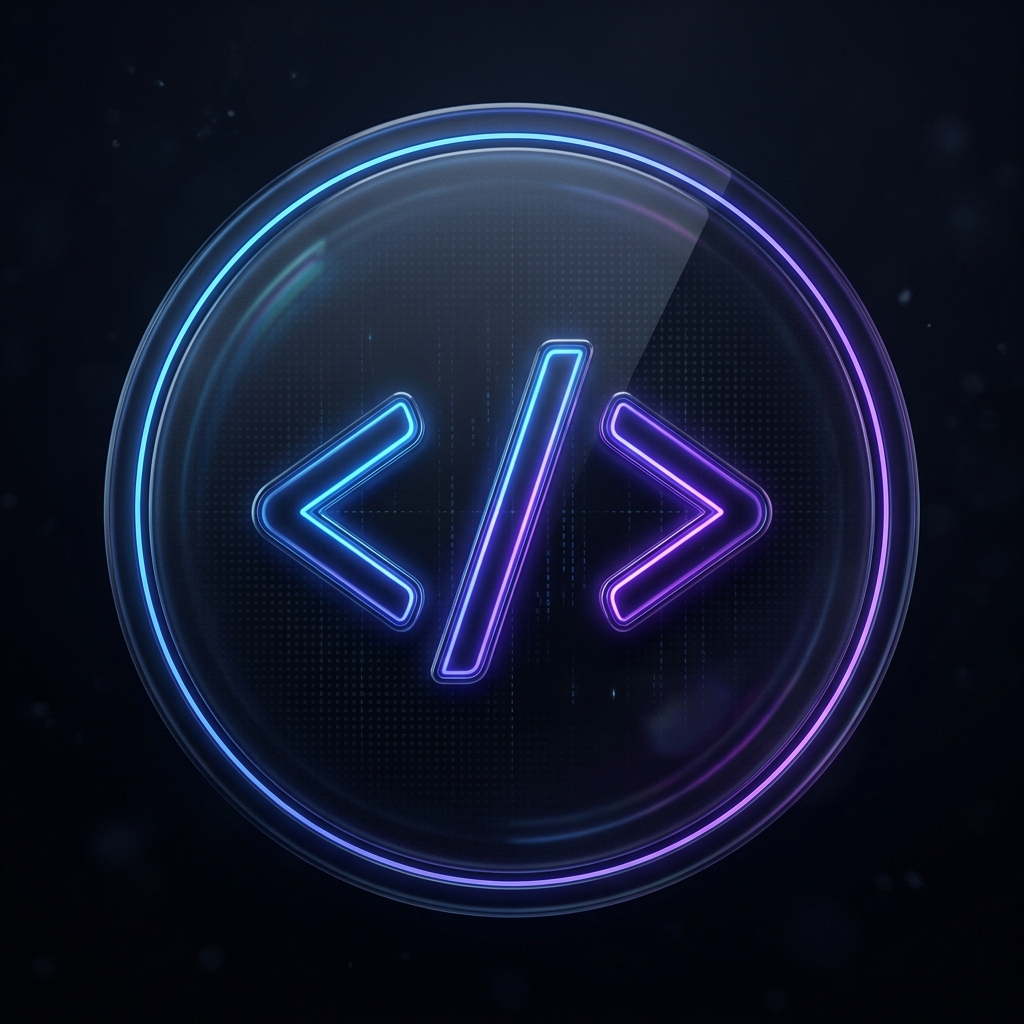
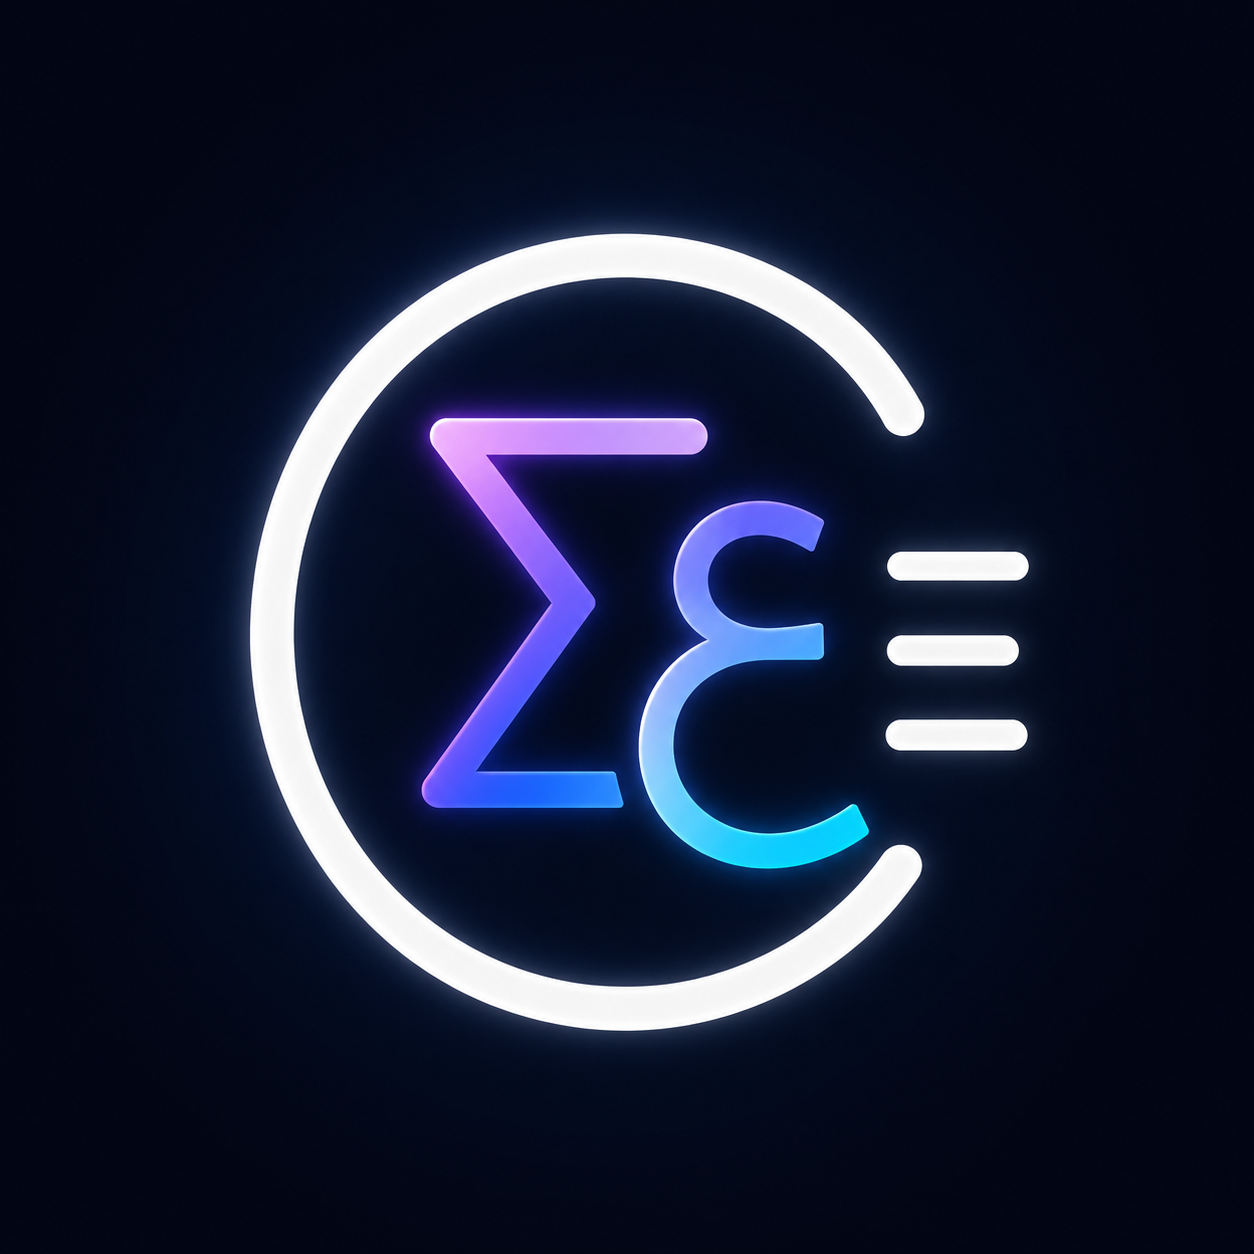
--no

diff --git a/src/Pages/dashboard/Projects.jsx b/src/Pages/dashboard/Projects.jsx
@@ -10,6 +10,8 @@ import {
   ExternalLink,
   Github,
   Pencil,
+  Eye,
+  EyeOff,
 } from "lucide-react";
 import { useI18n } from "../../i18n";
 import Swal from "sweetalert2";
@@ -72,9 +74,10 @@ const SkeletonCard = () => (
   </div>
 );
 
-const ProjectCard = ({ project, onDelete, onEdit }) => {
+const ProjectCard = ({ project, onDelete, onEdit, onTogglePublish }) => {
   const { t } = useI18n();
   const [imgLoaded, setImgLoaded] = useState(false);
+  const isHidden = project.is_published === false;
 
   return (
     <Card>
@@ -93,9 +96,16 @@ const ProjectCard = ({ project, onDelete, onEdit }) => {
             />
           </div>
         )}
-        <h3 className="font-semibold text-primary text-sm mb-1">
-          {project.title}
-        </h3>
+        <div className="flex items-center gap-2 mb-1">
+          <h3 className="font-semibold text-primary text-sm">
+            {project.title}
+          </h3>
+          {isHidden && (
+            <span className="px-2 py-0.5 rounded-md bg-yellow-500/15 text-yellow-400 text-[10px] font-bold uppercase tracking-wider border border-yellow-500/20">
+              Hidden
+            </span>
+          )}
+        </div>
         {project.description && (
           <p className="text-secondary text-xs mb-3 line-clamp-2 leading-relaxed">
             {project.description}
@@ -137,6 +147,21 @@ const ProjectCard = ({ project, onDelete, onEdit }) => {
             )}
           </div>
           <div className="flex gap-2">
+            <button
+              onClick={() => onTogglePublish(project)}
+              className={`flex items-center gap-1.5 px-3 py-1.5 rounded-lg border text-xs transition-colors ${
+                isHidden
+                  ? "border-emerald-500/25 text-emerald-400 hover:bg-emerald-500/10"
+                  : "border-amber-500/25 text-amber-400 hover:bg-amber-500/10"
+              }`}
+              aria-label={isHidden ? "Reveal project" : "Hide project"}
+            >
+              {isHidden ? (
+                <><Eye className="w-3 h-3" /> Reveal</>
+              ) : (
+                <><EyeOff className="w-3 h-3" /> Hide</>
+              )}
+            </button>
             <button
               onClick={() => onEdit(project)}
               className="flex items-center gap-1.5 px-3 py-1.5 rounded-lg border border-indigo-500/25 text-indigo-400 hover:bg-indigo-500/10 text-xs transition-colors"
@@ -367,6 +392,7 @@ export default function Projects() {
   const [showCreate, setShowCreate] = useState(false);
   const [editProject, setEditProject] = useState(null);
   const [uploading, setUploading] = useState(false);
+  const [filter, setFilter] = useState("all");
 
   const fetchProjects = async () => {
     setLoading(true);
@@ -533,6 +559,65 @@ export default function Projects() {
     }
   };
 
+  const handleTogglePublish = async (project) => {
+    const newPublished = project.is_published === false ? true : false;
+
+    const result = await Swal.fire({
+      title: newPublished ? "Reveal this project?" : "Hide this project?",
+      text: newPublished
+        ? "This project will become visible on your public portfolio."
+        : "This project will be hidden from your public portfolio. All data is preserved.",
+      icon: 'question',
+      showCancelButton: true,
+      confirmButtonColor: newPublished ? '#10b981' : '#f59e0b',
+      cancelButtonColor: '#6b7280',
+      confirmButtonText: newPublished ? "Yes, reveal" : "Yes, hide",
+      cancelButtonText: t("common.cancel"),
+      background: 'var(--bg-secondary)',
+      color: 'var(--text-primary)'
+    });
+
+    if (result.isConfirmed) {
+      try {
+        const { error } = await supabase
+          .from("projects")
+          .update({ is_published: newPublished })
+          .eq("id", project.id);
+
+        if (error) throw error;
+
+        Swal.fire({
+          icon: 'success',
+          title: newPublished ? 'Project revealed!' : 'Project hidden',
+          timer: 1500,
+          showConfirmButton: false,
+          background: 'var(--bg-secondary)',
+          color: 'var(--text-primary)'
+        });
+
+        fetchProjects();
+      } catch (error) {
+        Swal.fire({
+          icon: 'error',
+          title: 'Error',
+          text: error.message,
+          background: 'var(--bg-secondary)',
+          color: 'var(--text-primary)'
+        });
+      }
+    }
+  };
+
+  const visibleProjects = projects.filter((p) => p.is_published !== false);
+  const hiddenProjects = projects.filter((p) => p.is_published === false);
+  const filteredProjects = filter === "all" ? projects : filter === "visible" ? visibleProjects : hiddenProjects;
+
+  const filterOptions = [
+    { key: "all", label: `All (${projects.length})` },
+    { key: "visible", label: `Visible (${visibleProjects.length})` },
+    { key: "hidden", label: `Hidden (${hiddenProjects.length})` },
+  ];
+
   return (
     <div className="space-y-6z ">
       {/* Header */}
@@ -549,21 +634,39 @@ export default function Projects() {
               {t("portfolio.projects")}
             </h1>
             <p className="text-secondary text-xs">
-              {loading ? t("common.loading") : t("dashboard.projectsTotal", { count: projects.length })}
+              {loading ? t("common.loading") : `${filteredProjects.length} of ${projects.length} projects`}
             </p>
           </div>
         </div>
 
-        <button
-          onClick={() => setShowCreate(true)}
-          className="relative group shrink-0"
-        >
-          <div className="absolute -inset-0.5 bg-gradient-to-r from-accent-primary to-accent-secondary rounded-xl opacity-50 blur group-hover:opacity-80 transition duration-300" />
-          <div className="relative flex items-center gap-2 px-4 py-2.5 bg-primary rounded-xl border border-primary">
-            <Plus className="w-4 h-4 text-accent-primary" />
-            <span className="text-sm text-primary">{t("dashboard.newProject")}</span>
+        <div className="flex items-center gap-2">
+          <div className="flex gap-1 bg-secondary border border-primary rounded-xl p-1">
+            {filterOptions.map((opt) => (
+              <button
+                key={opt.key}
+                onClick={() => setFilter(opt.key)}
+                className={`px-3 py-1.5 rounded-lg text-xs font-medium transition-all duration-300 border ${
+                  filter === opt.key
+                    ? "glass-card text-primary strong-shadow shadow-accent-primary/10"
+                    : "text-secondary hover:text-primary border-transparent"
+                }`}
+              >
+                {opt.label}
+              </button>
+            ))}
           </div>
-        </button>
+
+          <button
+            onClick={() => setShowCreate(true)}
+            className="relative group shrink-0"
+          >
+            <div className="absolute -inset-0.5 bg-gradient-to-r from-accent-primary to-accent-secondary rounded-xl opacity-50 blur group-hover:opacity-80 transition duration-300" />
+            <div className="relative flex items-center gap-2 px-4 py-2.5 bg-primary rounded-xl border border-primary">
+              <Plus className="w-4 h-4 text-accent-primary" />
+              <span className="text-sm text-primary">{t("dashboard.newProject")}</span>
+            </div>
+          </button>
+        </div>
       </div>
 
       {/* Create Modal */}
@@ -598,23 +701,24 @@ export default function Projects() {
             <SkeletonCard key={i} />
           ))}
         </div>
-      ) : projects.length === 0 ? (
+      ) : filteredProjects.length === 0 ? (
         <Card>
           <div className="p-16 text-center">
             <FolderGit2 className="w-10 h-10 text-gray-700 mx-auto mb-3" />
             <p className="text-gray-500 text-sm">
-              {t("dashboard.noProjects")}
+              {filter === "hidden" ? "No hidden projects" : filter === "visible" ? "No visible projects" : t("dashboard.noProjects")}
             </p>
           </div>
         </Card>
       ) : (
         <div className="grid grid-cols-1 sm:grid-cols-2 xl:grid-cols-3 gap-4">
-          {projects.map((project) => (
+          {filteredProjects.map((project) => (
             <ProjectCard
               key={project.id}
               project={project}
               onDelete={deleteProject}
               onEdit={setEditProject}
+              onTogglePublish={handleTogglePublish}
             />
           ))}
         </div>

diff --git a/src/components/ProjectDetail.jsx b/src/components/ProjectDetail.jsx
@@ -44,7 +44,6 @@ const TechBadge = ({ tech }) => {
         WebkitBackdropFilter: 'blur(12px)',
       }}
     >
-      {/* Glassmorphic shimmer on hover */}
       <div className="absolute inset-0 bg-gradient-to-r from-accent-primary/0 to-accent-secondary/0 group-hover:from-accent-primary/15 group-hover:to-accent-secondary/15 transition-all duration-500 rounded-xl" />
       <div className="absolute inset-0 opacity-0 group-hover:opacity-100 transition-opacity duration-500 rounded-xl"
         style={{ background: 'linear-gradient(135deg, rgba(99,102,241,0.12) 0%, rgba(168,85,247,0.08) 100%)' }}
@@ -61,19 +60,20 @@ const TechBadge = ({ tech }) => {
 
 const FeatureItem = ({ feature }) => {
   return (
-    <li className="group/feature relative flex items-center p-3 md:p-4 rounded-xl transition-all duration-500 ease-out border border-primary hover:scale-[1.02] shadow-lg shadow-accent-primary/20 hover:shadow-2xl hover:shadow-accent-primary/40 overflow-hidden">
-      {/* Colorful Glassmorphic background */}
+    <li className="group/feature relative flex items-center p-3 md:p-4 rounded-xl transition-all duration-500 ease-out border border-primary hover:scale-[1.02] shadow-lg shadow-accent-primary/20 hover:shadow-2xl hover:shadow-accent-primary/40 overflow-hidden"
+      style={{
+        backdropFilter: 'blur(12px)',
+        WebkitBackdropFilter: 'blur(12px)',
+      }}
+    >
       <div className="absolute inset-0 rounded-xl transition-all duration-300 pointer-events-none group-hover/feature:opacity-80"
         style={{
           background: 'linear-gradient(135deg, rgba(99,102,241,0.15) 0%, rgba(168,85,247,0.15) 100%)',
-          backdropFilter: 'blur(12px)',
         }}
       />
       
-      {/* Extra glow on hover */}
       <div className="absolute inset-0 bg-gradient-to-r from-accent-primary/20 to-accent-secondary/20 opacity-0 group-hover/feature:opacity-100 transition-opacity duration-500 rounded-xl" />
 
-      {/* Sheen Animation - isolated to this feature tag */}
       <div className="absolute inset-0 translate-x-[-100%] group-hover/feature:translate-x-[100%] transition-transform duration-1000 bg-gradient-to-r from-transparent via-white/10 to-transparent skew-x-[-20deg]" />
 
       <span className="relative text-sm md:text-base font-medium text-[var(--text-primary)] transition-colors">
@@ -94,10 +94,10 @@ const ProjectStats = ({ project, t }) => {
     return (
       <div className="relative group h-full">
         <div 
-          className="relative z-10 glass-card rounded-2xl p-3 md:p-4 transition-all duration-300 hover:scale-105 h-full flex flex-col justify-between overflow-hidden shadow-lg border border-primary"
+          className="relative z-10 stats-glass-card rounded-2xl p-3 md:p-4 transition-all duration-300 hover:scale-105 h-full flex flex-col justify-between overflow-hidden shadow-lg border border-primary"
           style={{
             '--hover-shadow': glowColor,
-            '--passive-shadow': passiveGlow
+            '--passive-shadow': passiveGlow,
           }}
         >
           <div className={`absolute -z-10 inset-0 bg-gradient-to-br ${color} opacity-10 group-hover:opacity-20 transition-opacity duration-300`}></div>
@@ -117,15 +117,6 @@ const ProjectStats = ({ project, t }) => {
             </p>
           </div>
         </div>
-
-        <style>{`
-          .glass-card {
-            box-shadow: 0 4px 6px -1px rgba(0, 0, 0, 0.1), 0 2px 4px -1px rgba(0, 0, 0, 0.06), 0 0 10px var(--passive-shadow);
-          }
-          .group:hover .glass-card {
-            box-shadow: 0 20px 25px -5px rgba(0, 0, 0, 0.1), 0 10px 10px -5px rgba(0, 0, 0, 0.04), 0 0 20px var(--hover-shadow);
-          }
-        `}</style>
       </div>
     );
   };
@@ -175,7 +166,9 @@ const ProjectDetails = () => {
 
   useEffect(() => {
     window.scrollTo(0, 0);
-    const storedProjects = JSON.parse(localStorage.getItem("projects")) || [];
+    const storedProjects = (JSON.parse(localStorage.getItem("projects")) || []).filter(
+      (p) => p.is_published !== false
+    );
 
     let selectedProject = null;
     if (projectId) {
@@ -255,8 +248,8 @@ const ProjectDetails = () => {
       <div className="min-h-screen bg-primary px-[2%] sm:px-0 relative overflow-hidden transition-colors duration-300">
         <div className="fixed inset-0 pointer-events-none">
           <div className="absolute -inset-[10px] opacity-[var(--blob-opacity)]">
-            <div className="absolute top-0 -start-4 w-72 md:w-96 h-72 md:h-96 bg-accent-secondary rounded-full mix-blend-multiply filter blur-3xl opacity-70 animate-blob" />
-            <div className="absolute top-0 -end-4 w-72 md:w-96 h-72 md:h-96 bg-accent-primary rounded-full mix-blend-multiply filter blur-3xl opacity-70 animate-blob animation-delay-2000" />
+            <div className="absolute top-0 -start-4 w-72 md:w-96 h-72 md:h-96 bg-accent-secondary rounded-full blur-3xl opacity-25 animate-blob will-change-transform" />
+            <div className="absolute top-0 -end-4 w-72 md:w-96 h-72 md:h-96 bg-accent-primary rounded-full blur-3xl opacity-25 animate-blob animation-delay-2000 will-change-transform" />
           </div>
           <div className="absolute inset-0 bg-[url('/grid.svg')] opacity-[0.02]" />
         </div>
@@ -332,10 +325,8 @@ const ProjectDetails = () => {
                       color: 'var(--accent-primary)',
                     }}
                   >
-                    {/* Ambient Glow background */}
                     <div className="absolute -inset-0.5 bg-gradient-to-r from-accent-primary/20 to-accent-secondary/20 rounded-xl blur opacity-30 group-hover:opacity-60 transition duration-500" />
                     
-                    {/* Hover shimmer fill */}
                     <div className="absolute inset-0 bg-gradient-to-r from-accent-primary/10 to-accent-secondary/10 group-hover:from-accent-primary/20 group-hover:to-accent-secondary/20 transition-all duration-500 rounded-xl" />
                     <ExternalLink className="relative w-4 h-4 md:w-5 md:h-5 group-hover:rotate-12 transition-transform" />
                     <span className="relative font-medium">{t("project.liveDemo")}</span>
@@ -353,14 +344,9 @@ const ProjectDetails = () => {
                       WebkitBackdropFilter: 'blur(16px)',
                       color: 'var(--accent-secondary)',
                     }}
-                    onClick={(e) =>
-                      !handleGithubClick(project.github, t) && e.preventDefault()
-                    }
                   >
-                    {/* Ambient Glow background */}
                     <div className="absolute -inset-0.5 bg-gradient-to-r from-accent-secondary/20 to-accent-primary/20 rounded-xl blur opacity-30 group-hover:opacity-60 transition duration-500" />
 
-                    {/* Hover shimmer fill */}
                     <div className="absolute inset-0 bg-gradient-to-r from-accent-secondary/10 to-accent-primary/10 group-hover:from-accent-secondary/20 group-hover:to-accent-primary/20 transition-all duration-500 rounded-xl" />
                     <Github className="relative w-4 h-4 md:w-5 md:h-5 group-hover:rotate-12 transition-transform" />
                     <span className="relative font-medium">Github</span>
@@ -479,6 +465,12 @@ const ProjectDetails = () => {
               opacity: 1;
               transform: translateX(0);
             }
+          }
+          .stats-glass-card {
+            box-shadow: 0 4px 6px -1px rgba(0, 0, 0, 0.1), 0 2px 4px -1px rgba(0, 0, 0, 0.06), 0 0 10px var(--passive-shadow, transparent);
+          }
+          .group:hover .stats-glass-card {
+            box-shadow: 0 20px 25px -5px rgba(0, 0, 0, 0.1), 0 10px 10px -5px rgba(0, 0, 0, 0.04), 0 0 20px var(--hover-shadow, transparent);
           }
         `}</style>
       </div>

diff --git a/src/Pages/Portfolio.jsx b/src/Pages/Portfolio.jsx
@@ -145,6 +145,10 @@ export default function FullWidthTabs() {
       icon: currentTheme === "dark" ? "/tools/rust-dark.svg" : "/tools/rust-light.svg", 
       language: "Rust" 
     },
+    {
+      icon: currentTheme === "dark" ? "/tools/railway-dark.svg" : "/tools/railway-light.svg",
+      language: "Railway"
+    },
     { icon: "/tools/tauri.svg", language: "Tauri" },
     { icon: "/tools/kotlin.svg", language: "Kotlin" },
     { icon: "/tools/python.svg", language: "Python" },
@@ -178,7 +182,7 @@ export default function FullWidthTabs() {
     try {
       // Fetch data from Supabase in parallel
       const [projectsResponse, certificatesResponse] = await Promise.all([
-        supabase.from("projects").select("*").order('id', { ascending: false }),
+        supabase.from("projects").select("*").eq('is_published', true).order('id', { ascending: false }),
         supabase.from("certificates").select("*").order('id', { ascending: false }), 
       ]);
 
@@ -213,7 +217,8 @@ export default function FullWidthTabs() {
     const cachedCertificates = localStorage.getItem('certificates');
 
     if (cachedProjects && cachedCertificates) {
-        setProjects(JSON.parse(cachedProjects));
+        const parsed = JSON.parse(cachedProjects);
+        setProjects(parsed.filter((p) => p.is_published !== false));
         setCertificates(JSON.parse(cachedCertificates));
     }
     

diff --git a/src/Pages/About.jsx b/src/Pages/About.jsx
@@ -122,7 +122,7 @@ const AboutPage = () => {
   const [manualTotalProjects, setManualTotalProjects] = useState(26);
   // Dynamic stats calculation
   const countAccessible = (projects) =>
-    projects.filter(p => (p.github && p.github.trim()) || (p.link && p.link.trim())).length;
+    projects.filter(p => p.is_published !== false && ((p.github && p.github.trim()) || (p.link && p.link.trim()))).length;
 
   const [profileImage, setProfileImage] = useState("");
   const [fullName, setFullName] = useState("");